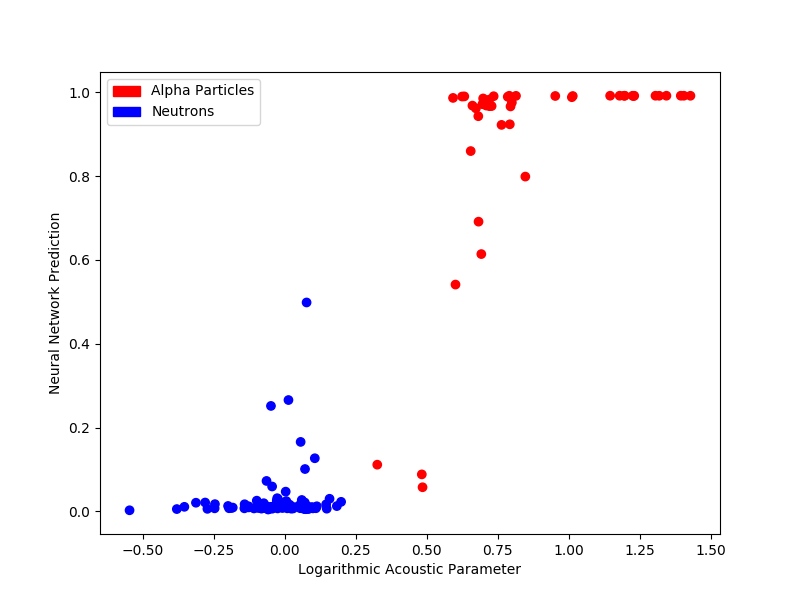
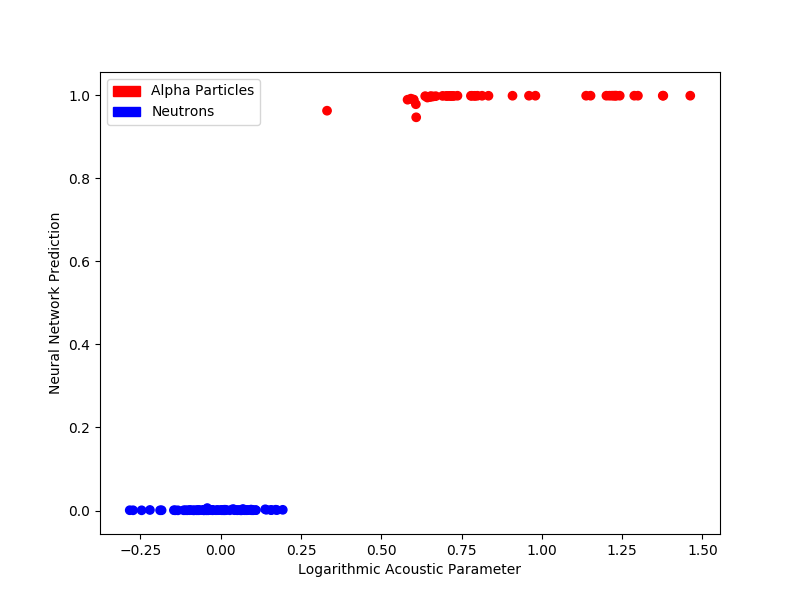
Added table for gravitational differentiation; did associated writeup

diff --git a/documentation/paper.tex b/documentation/paper.tex
@@ -22,7 +22,7 @@
 \maketitle
 
 \begin{abstract}
-    The identification of non-signal events is a major hurdle to overcome for bubble chamber dark matter experiments such as PICO-60. The current practice of manually developing a discriminator function to eliminate background events is difficult when available calibration data is frequently impure and present only in small quantities. In this study, several different input formats and neural network architectures are applied to the task. First, they are optimized in a supervised learning context. Next, two novel semi-supervised learning algorithms are trained, and found to replicate the Acoustic Parameter discriminator previously used in PICO-60 with up to 100\% accuracy.
+    The identification of non-signal events is a major hurdle to overcome for bubble chamber dark matter experiments such as PICO-60. The current practice of manually developing a discriminator function to eliminate background events is difficult when available calibration data is frequently impure and present only in small quantities. In this study, several different input formats and neural network architectures are applied to the task. First, they are optimized in a supervised learning context. Next, two novel semi-supervised learning algorithms are trained, and found to replicate the Acoustic Parameter discriminator previously used in PICO-60 with a mean of 97\% accuracy.
 \end{abstract}
 
 \section{Objective}
@@ -648,7 +648,7 @@ It is a distortion of the hyperbolic tangent that flattens the central range and
 
 (Note that step \ref{exponent} only works if $p$ is an odd integer (because odd integer exponents preserve the sign), limiting the ability to fine-tune this function by changing $\psi$. To resolve this, a piecewise exponential function is used instead, where the absolute value is taken prior to applying the power and the sign is multiplied back in afterwards. This permits use of the full range of curves produced by even and non-integer values of $\psi$.)
 
-\begin{figure}[H]
+\begin{figure}[h]
     \centering
     \includegraphics[width=0.8\textwidth]{grav_diff}
     \caption{\label{grav_diff} A visualization of $GravDiff(p, \psi, g)$ with respect to $p$ and $\psi$.}
@@ -668,16 +668,64 @@ This system was trained using a multi-layer perceptron with an 8-band Fourier tr
 
 \subsubsection{Results}
 
-During a grid search of parameters of the gravitational differentiation algorithm (in addition to the stochastic gradient descent learning rate), the algorithm achieved a maximum of 98\% validation accuracy. The mean over that run (also the highest overall) was 96\%. Figure \ref{grav_grid_search} shows the highly accurate replication of AP.
+During a grid search of parameters of the gravitational differentiation algorithm (in addition to the stochastic gradient descent learning rate), the highest mean accuracy over three runs of an individual configuration was 99\%. The highest accuracy was obtained with 256 labeled examples in the set $\varsigma$ (out of 496 total training examples). High accuracy statistics in this range were also obtained using 128 examples (99\% accuracy, once again) and 64 examples (97\% accuracy). 32 examples produced a much lower maximum accuracy, at only 83\%. From this, it is evident that it is possible to achieve very high accuracy using this technique. It is also clear that, in general, larger initial sets produce higher performance.
 
-Two different options were tested with regard to size of the labeled data set $\varsigma$. Out of a set of 496 total examples available for training, either 128 (approximately $1/4$ of the total set) or 256 (approximately $1/2$) were used as labeled data. Over the entire grid search, runs with 128 examples in $\varsigma$ produced on average 64\% more errors on validation data, compared to those with 256 examples.
+However, the four hyperparameters optimized during the grid search were observed to have a weak polynomial correlation with the network's accuracy. This implies that the training process is generally insensitive to variations in those particular network parameters.
 
-!!!Include table on grid search!!!
+This lack of correlation also means that the mean accuracy over all configurations with a given $\varsigma$ size is a meaningful statistic, since the validation accuracy for an individual configuration is difficult to confidently predict. These statistics, shown in Table \ref{grav_accuracy_by_varsigma}, show that for all four set sizes, there is a fairly wide spread between maximum and mean accuracy.
+
+\begin{minipage}{\textwidth}
+    \begin{center}
+        \captionof{table}{Gravitational differentiation accuracy statistics by size of $\varsigma$.} \label{grav_accuracy_by_varsigma}
+        \begin{tabular}{|l|l|l|}
+            \hline
+            Initial $\varsigma$ Size & Max Accuracy & Mean Accuracy \\
+            \hline
+            32 & 83\% & 69\% \\
+            \hline
+            64 & 97\% & 73\% \\
+            \hline
+            128 & 99\% & 84\% \\
+            \hline
+            256 & 99\% & 94\% \\
+            \hline
+        \end{tabular}
+    \end{center}
+\end{minipage}
+
+The following table represents the performance of several high-accuracy gravitational differentiation configurations tested during the grid search. The accuracy statistic is the mean over three tests of the same configuration.
+
+\begin{minipage}{\textwidth}
+    \begin{center}
+        \captionof{table}{Performance of gravitational differentiation configurations.}
+        \begin{tabular}{|l|l|l|l|l|l|l|l|}
+            \hline
+            $\varsigma$ Size & $\delta g$ & Learning Rate & $\psi$ & Mean AP Accuracy & Precision & Recall & CWSD \\
+            \hline
+            32 & 0.0005 & 0.001 & 5 & 73\% & 72\% 90\% & 0.78 \\
+            \hline
+            32 & 0.0005 & 0.003 & 9 & 83\% & 80\% & 99\% & 0.63 \\
+            \hline
+            64 & 0.0005 & 0.003 & 9 & 77\% & 74\% & 97\% & 0.71 \\
+            \hline
+            64 & 0.003 & 0.03 & 7 & 97\% & 96\% & 100\% & 0.18 \\
+            \hline
+            128 & 0.008 & 0.001 & 9 & 74\% & 71\% & 95\% & 0.70 \\
+            \hline
+            128 & 0.0005 & 0.03 & 11 & 99\% & 99\% & 99\% & 0.17 \\
+            \hline
+            256 & 0.005 & 0.01 & 11 & 97\% & 96\% & 99\% & 0.25 \\
+            \hline
+            256 & 0.001 & 0.03 & 3 & 99\% & 99\% & 100\% & 0.10 \\
+            \hline
+        \end{tabular}
+    \end{center}
+\end{minipage}
 
 \begin{figure}[H]
     \centering
     \includegraphics[width=\textwidth]{grav_grid_search}
-    \caption{\label{grav_grid_search} Accuracy of best gravitational differentiation training run compared to AP (98\% accuracy).}
+    \caption{\label{grav_grid_search} Accuracy of best gravitational differentiation training epoch compared to AP.}
 \end{figure}
 
 \subsection{Iterative Cluster Nucleation}
@@ -715,21 +763,36 @@ Parameterized by the initial seed threshold $j$ (on the order of 0.01) and the s
 
 \subsubsection{Results}
 
-During a grid search of these parameters (in addition to regularization parameters of the network), the best mean accuracy over three runs of an individual configuration was 99\%, using 256 initial labeled examples in $\varsigma$. With 128 examples, the maximum was 98\%; with 64 it was 97\%; and with 32, 95\%. From this, it is evident that it is possible to achieve very high accuracy using this technique. It is also clear that, in general, larger initial sets produce higher performance.
-
-Interestingly, the four hyperparameters optimized during the grid search were observed to have a weak polynomial correlation with the network's accuracy. This makes the mean accuracy over all configurations a meaningful statistic, since the accuracy for an individual configuration is difficult to confidently predict.
-
-With 32 and 64 examples it was only 75\% and 84\%, respectively, implying that the high maximum accuracy statistics were subject to a high degree of randomness. However, for 128 and 256 initial examples, the mean accuracy statistics over all configurations were 95\% and 97\%, respectively, indicating that the training is much more reliable with a larger initial set.
-
-Note that there are several hyperparameters not specifically optimized in the context of iterative cluster nucleation, including the number of layers and numbers of neurons within those layers. The correlation between those hyperparameters and accuracy is subject to future research.
-
-The network's highly accurate and decisive predictions can be observed in Figure \ref{icn_grid_search}.
+During a grid search of these parameters (in addition to regularization parameters of the network), the best mean accuracy over three runs of an individual configuration was 99\%, using 256 initial labeled examples in $\varsigma$. (The network's predictions on the best performing epoch can be observed in Figure \ref{icn_grid_search}.) With 128 examples, the maximum was 98\%; with 64 it was 97\%; and with 32, 95\%. As with gravitational differentiation, larger set sizes improve accuracy significantly.
 
 \begin{figure}[h]
     \centering
     \includegraphics[width=\textwidth]{icn_grid_search}
-    \caption{\label{icn_grid_search} Accuracy of optimal iterative cluster nucleation training run compared to AP (100\% accuracy).}
+    \caption{\label{icn_grid_search} Accuracy of best iterative cluster nucleation training epoch compared to AP.}
 \end{figure}
+
+Once again, the parameters inherent to the ICN algorithm, as well as dropout and L2 regularization, do not have a meaningful polynomial correlation with accuracy. Note that there are several hyperparameters not specifically optimized in the context of iterative cluster nucleation, including the number of layers and numbers of neurons within those layers. The correlation between those hyperparameters and accuracy is subject to future research.
+
+The mean accuracy for a given initial $\varsigma$ is again important. In Table \ref{icn_accuracy_by_varsigma}, it is clear that with small initial $\varsigma$ sets, the training process is very unreliable, much like gravitational differentiation. However, the mean accuracy is much closer to the maximum for initial $\varsigma$ sets of 128 and 256, indicating that the training process of ICN is significantly more consistent than gravitational differentiation.
+
+\begin{minipage}{\textwidth}
+    \begin{center}
+        \captionof{table}{Iterative cluster nucleation accuracy statistics by initial size of $\varsigma$.} \label{icn_accuracy_by_varsigma}
+        \begin{tabular}{|l|l|l|}
+            \hline
+            Initial $\varsigma$ Size & Max Accuracy & Mean Accuracy \\
+            \hline
+            32 & 95\% & 75\% \\
+            \hline
+            64 & 97\% & 84\% \\
+            \hline
+            128 & 98\% & 95\% \\
+            \hline
+            256 & 99\% & 97\% \\
+            \hline
+        \end{tabular}
+    \end{center}
+\end{minipage}
 
 The following table represents the performance of a variety of high-accuracy iterative cluster nucleation configurations tested during the grid search. As with gravitational differentiation, the accuracy statistic is the mean over three tests of the same configuration.
 
@@ -762,20 +825,28 @@ The following table represents the performance of a variety of high-accuracy ite
 
 \subsection{Performance Summary}
 
-The following table directly compares performance of certain successful semi-supervised learning systems, with AP provided as a baseline for comparison. Remember that ``Mean AP Accuracy'' refers to accuracy at replication of AP, rather than replication of the ground truths.
+The following table directly compares performance of the most successful semi-supervised learning configurations, with AP provided as a baseline for comparison. Remember that ``Mean AP Accuracy'' refers to accuracy at replication of AP, rather than replication of the ground truths.
 
 \begin{minipage}{\textwidth}
     \begin{center}
-        \captionof{table}{Summary of semi-supervised learning systems.}
+        \captionof{table}{Summary of the most successful semi-supervised learning configuration.}
         \begin{tabular}{|l|l|l|l|l|l|}
             \hline
             Initial $\varsigma$ Size & Technique & Mean AP Accuracy & Mean Precision & Mean Recall & Mean CWSD \\
             \hline
+            32 & GD & 83\% & 80\% & 99\% & 0.63 \\
+            \hline
             32 & ICN & 95\% & 94\% & 99\% & 0.38 \\
+            \hline
+            64 & GD & 97\% & 96\% & 100\% & 0.18 \\
             \hline
             64 & ICN & 97\% & 96\% & 99\% & 0.28 \\
             \hline
+            128 & GD & 99\% & 99\% & 99\% & 0.17 \\
+            \hline
             128 & ICN & 98\% & 98\% & 100\% & 0.21 \\
+            \hline
+            256 & GD & 99\% & 99\% & 100\% & 0.10 \\
             \hline
             256 & ICN & 99\% & 99\% & 100\% & 0.15 \\
             \hline
@@ -785,13 +856,15 @@ The following table directly compares performance of certain successful semi-sup
     \end{center}
 \end{minipage}
 
+Note that in addition to achieving similar accuracy, configurations from both semi-supervised learning algorithms produce significantly more decisive predictions compared to AP, as measured by the class-wise standard deviation.
+
 \section{Conclusions}
 
 This study has demonstrated that it is possible, using semi-supervised learning, to automatically optimize a discriminator with performance comparable to one developed and tuned by humans like the Acoustic Parameter technique. This conclusion has been achieved through two rounds of optimization, the first to explore and evaluate various network structures and input formats using supervised learning, and the second to incorporate the most successful configuration into semi-supervised learning systems with the goal of replicating AP as accurately as possible.
 
 In the realm of supervised learning, it was made clear that the banded Fourier transform is the most effective input format. It produced significantly higher accuracy and tighter prediction distributions than neural networks trained on either the raw audio waveform or image window data. There is strong evidence that image data in particular does not contain sufficient information to be used for discrimination.
 
-Two semi-supervised learning algorithms were developed, applying the best configuration found for supervised learning. While both techniques produced some very effective discriminators, iterative cluster nucleation was found to be the more effective of the two. It replicated AP with a mean of 98\% accuracy on the best configuration. This indicates that the technique shows significant promise.
+Two semi-supervised learning algorithms were developed, applying the best configuration found for supervised learning. While both techniques produced some very effective discriminators, iterative cluster nucleation was found to be the more effective of the two. It replicated AP with a mean of 97\% accuracy, using 256 labeled training examples. This indicates that the technique shows significant promise.
 
 While there is still of course a place for conventionally developed discriminators such as AP, they are difficult to develop until a large quantity of calibration data has been collected and the physical principles of the experiment are understood well. The innovations developed in this study suggest that semi-supervised learning can facilitate very quick development of discriminators immediately after the first calibration runs are conducted on a new experimental apparatus. This has the potential to allow the teams working on these experiments to iterate more quickly and better understand intermediate results, before all data has been analyzed in depth.
 
